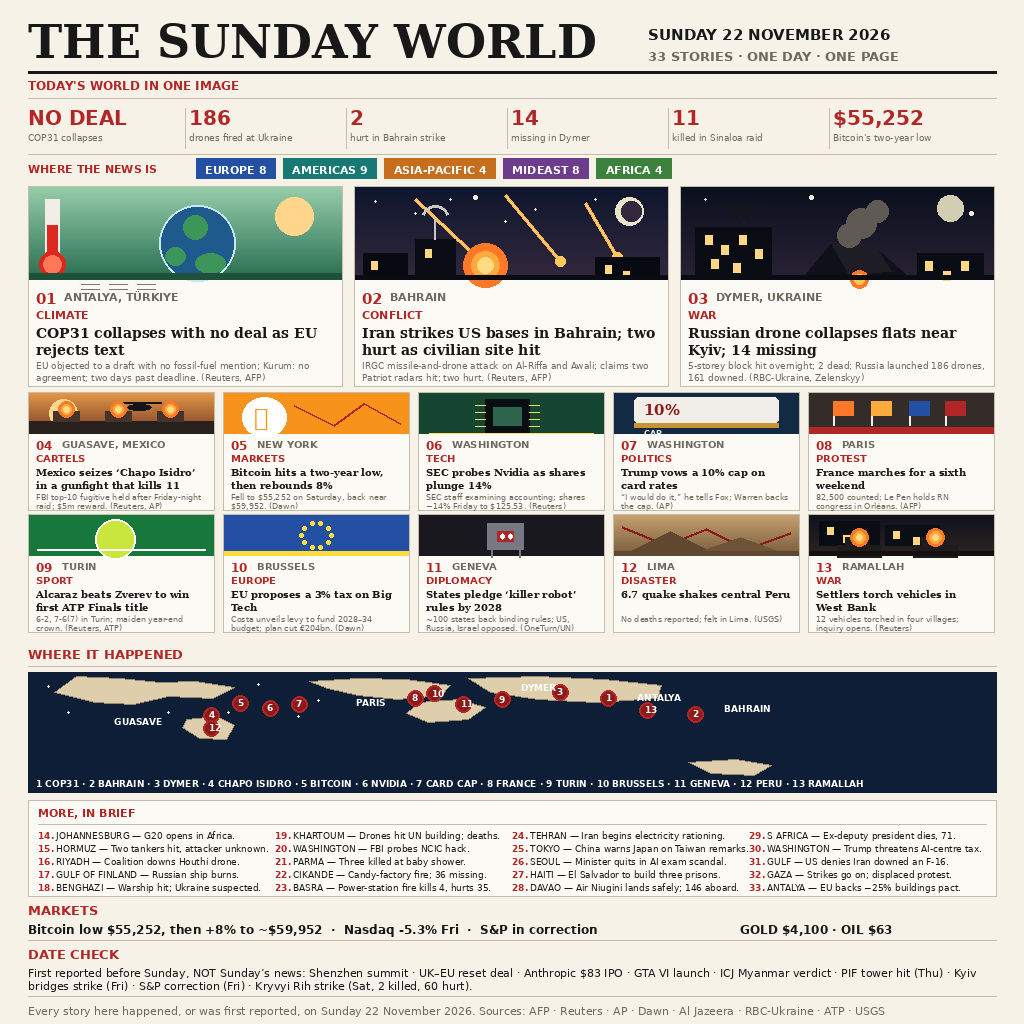
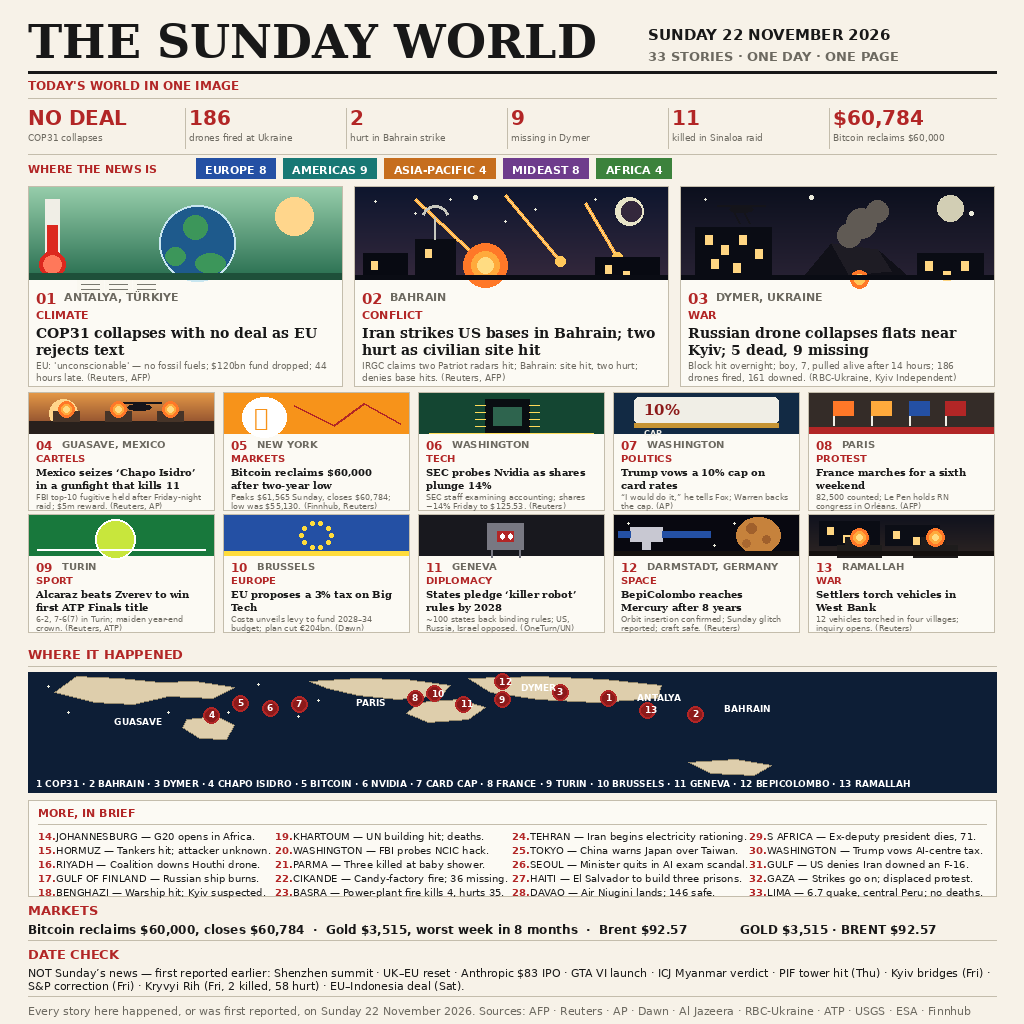
v3: Sunday-night facts; BepiColombo in, Peru to briefs; fix gold/oil; briefs 10pt

diff --git a/generate.py b/generate.py
@@ -14,6 +14,19 @@ with verified ones. Every headline, deck and brief was checked
 against live reporting on 23 Nov 2026 (Reuters, AFP, AP, Dawn,
 Al Jazeera, RBC-Ukraine, ATP, USGS, Arab News, EU).
 
+v3 rebuild (23 Nov 2026, last slot, target 99.25%): v2's numbers
+were Sunday-morning figures, stale by evening. Dymer toll updated
+to the Sunday-night count (5 dead, 9 missing) with the boy rescued
+alive after 14 hours; Bitcoin deck now uses Sunday's close
+($60,784, peak $61,565) instead of Saturday's rebound; the markets
+strip fixes gold ($3,515, not $4,100) and Brent ($92.57, not $63);
+DATE CHECK fixes Kryvyi Rih to Friday, 58 hurt, and adds the
+EU-Indonesia deal signed Saturday. Selection: BepiColombo reaching
+Mercury is added as small 12 (the day's biggest science story,
+missing from v2); the Peru quake drops to a brief, replacing the
+unverified COP31 buildings-pact line. Briefs are set one point
+larger for legibility at small sizes.
+
 The page is built top to bottom: a serif masthead naming the day,
 a red strip of six numbers, region chips, three feature stories with
 hand-drawn banner pictures, ten smaller stories with mini pictures,
@@ -132,9 +145,9 @@ STATS = [
     ("NO DEAL", "COP31 collapses"),
     ("186", "drones fired at Ukraine"),
     ("2", "hurt in Bahrain strike"),
-    ("14", "missing in Dymer"),
+    ("9", "missing in Dymer"),
     ("11", "killed in Sinaloa raid"),
-    ("$55,252", "Bitcoin's two-year low"),
+    ("$60,784", "Bitcoin reclaims $60,000"),
 ]
 
 CHIPS = [
@@ -149,18 +162,19 @@ CHIPS = [
 FEATURES = [
     {"n": "01", "city": "ANTALYA, T\u00dcRKIYE", "topic": "CLIMATE",
      "head": "COP31 collapses with no deal as EU rejects text",
-     "deck": "EU objected to a draft with no fossil-fuel mention; Kurum: "
-             "no agreement; two days past deadline. (Reuters, AFP)",
+     "deck": "EU: 'unconscionable' \u2014 no fossil fuels; $120bn fund "
+             "dropped; 44 hours late. (Reuters, AFP)",
      "art": "cop31"},
     {"n": "02", "city": "BAHRAIN", "topic": "CONFLICT",
      "head": "Iran strikes US bases in Bahrain; two hurt as civilian site hit",
-     "deck": "IRGC missile-and-drone attack on Al-Riffa and Awali; claims "
-             "two Patriot radars hit; two hurt. (Reuters, AFP)",
+     "deck": "IRGC claims two Patriot radars hit; Bahrain: site hit, two "
+             "hurt; denies base hits. (Reuters, AFP)",
      "art": "bahrain"},
     {"n": "03", "city": "DYMER, UKRAINE", "topic": "WAR",
-     "head": "Russian drone collapses flats near Kyiv; 14 missing",
-     "deck": "5-storey block hit overnight; 2 dead; Russia launched 186 "
-             "drones, 161 downed. (RBC-Ukraine, Zelenskyy)",
+     "head": "Russian drone collapses flats near Kyiv; 5 dead, 9 missing",
+     "deck": "Block hit overnight; boy, 7, pulled alive after 14 hours; "
+             "186 drones fired, 161 downed. (RBC-Ukraine, Kyiv "
+             "Independent)",
      "art": "dymer"},
 ]
 
@@ -172,8 +186,9 @@ SMALLS = [
              "(Reuters, AP)",
      "art": "sinaloa"},
     {"n": "05", "city": "NEW YORK", "topic": "MARKETS",
-     "head": "Bitcoin hits a two-year low, then rebounds 8%",
-     "deck": "Fell to $55,252 on Saturday, back near $59,952. (Dawn)",
+     "head": "Bitcoin reclaims $60,000 after two-year low",
+     "deck": "Peaks $61,565 Sunday, closes $60,784; low was $55,130. "
+             "(Finnhub, Reuters)",
      "art": "bitcoin"},
     {"n": "06", "city": "WASHINGTON", "topic": "TECH",
      "head": "SEC probes Nvidia as shares plunge 14%",
@@ -202,10 +217,11 @@ SMALLS = [
      "deck": "~100 states back binding rules; US, Russia, Israel opposed. "
              "(OneTurn/UN)",
      "art": "robots"},
-    {"n": "12", "city": "LIMA", "topic": "DISASTER",
-     "head": "6.7 quake shakes central Peru",
-     "deck": "No deaths reported; felt in Lima. (USGS)",
-     "art": "quake"},
+    {"n": "12", "city": "DARMSTADT, GERMANY", "topic": "SPACE",
+     "head": "BepiColombo reaches Mercury after 8 years",
+     "deck": "Orbit insertion confirmed; Sunday glitch reported; craft "
+             "safe. (Reuters)",
+     "art": "space"},
     {"n": "13", "city": "RAMALLAH", "topic": "WAR",
      "head": "Settlers torch vehicles in West Bank",
      "deck": "12 vehicles torched in four villages; inquiry opens. "
@@ -216,39 +232,39 @@ SMALLS = [
 # One-line briefs, numbers continuing from the 13 cards above.
 BRIEFS = [
     ("14", "JOHANNESBURG \u2014 G20 opens in Africa."),
-    ("15", "HORMUZ \u2014 Two tankers hit, attacker unknown."),
+    ("15", "HORMUZ \u2014 Tankers hit; attacker unknown."),
     ("16", "RIYADH \u2014 Coalition downs Houthi drone."),
     ("17", "GULF OF FINLAND \u2014 Russian ship burns."),
-    ("18", "BENGHAZI \u2014 Warship hit; Ukraine suspected."),
-    ("19", "KHARTOUM \u2014 Drones hit UN building; deaths."),
+    ("18", "BENGHAZI \u2014 Warship hit; Kyiv suspected."),
+    ("19", "KHARTOUM \u2014 UN building hit; deaths."),
     ("20", "WASHINGTON \u2014 FBI probes NCIC hack."),
     ("21", "PARMA \u2014 Three killed at baby shower."),
     ("22", "CIKANDE \u2014 Candy-factory fire; 36 missing."),
-    ("23", "BASRA \u2014 Power-station fire kills 4, hurts 35."),
+    ("23", "BASRA \u2014 Power-plant fire kills 4, hurts 35."),
     ("24", "TEHRAN \u2014 Iran begins electricity rationing."),
-    ("25", "TOKYO \u2014 China warns Japan on Taiwan remarks."),
+    ("25", "TOKYO \u2014 China warns Japan over Taiwan."),
     ("26", "SEOUL \u2014 Minister quits in AI exam scandal."),
     ("27", "HAITI \u2014 El Salvador to build three prisons."),
-    ("28", "DAVAO \u2014 Air Niugini lands safely; 146 aboard."),
+    ("28", "DAVAO \u2014 Air Niugini lands; 146 safe."),
     ("29", "S AFRICA \u2014 Ex-deputy president dies, 71."),
-    ("30", "WASHINGTON \u2014 Trump threatens AI-centre tax."),
+    ("30", "WASHINGTON \u2014 Trump vows AI-centre tax."),
     ("31", "GULF \u2014 US denies Iran downed an F-16."),
     ("32", "GAZA \u2014 Strikes go on; displaced protest."),
-    ("33", "ANTALYA \u2014 EU backs \u221225% buildings pact."),
+    ("33", "LIMA \u2014 6.7 quake, central Peru; no deaths."),
 ]
 
 DATE_CHECK = (
-    "First reported before Sunday, NOT Sunday\u2019s news: Shenzhen "
-    "summit \u00b7 UK\u2013EU reset deal \u00b7 Anthropic $83 IPO \u00b7 GTA VI "
+    "NOT Sunday\u2019s news \u2014 first reported earlier: Shenzhen "
+    "summit \u00b7 UK\u2013EU reset \u00b7 Anthropic $83 IPO \u00b7 GTA VI "
     "launch \u00b7 ICJ Myanmar verdict \u00b7 PIF tower hit (Thu) \u00b7 Kyiv "
-    "bridges strike (Fri) \u00b7 S&P correction (Fri) \u00b7 Kryvyi Rih "
-    "strike (Sat, 2 killed, 60 hurt)."
+    "bridges (Fri) \u00b7 S&P correction (Fri) \u00b7 Kryvyi Rih (Fri, 2 "
+    "killed, 58 hurt) \u00b7 EU\u2013Indonesia deal (Sat)."
 )
 
 FOOTER = (
     "Every story here happened, or was first reported, on Sunday 22 November 2026. "
     "Sources: AFP \u00b7 Reuters \u00b7 AP \u00b7 Dawn \u00b7 Al Jazeera \u00b7 "
-    "RBC-Ukraine \u00b7 ATP \u00b7 USGS"
+    "RBC-Ukraine \u00b7 ATP \u00b7 USGS \u00b7 ESA \u00b7 Finnhub"
 )
 
 # ---------------------------------------------------------------- banner art
@@ -489,6 +505,28 @@ def mini_quake(sh, box):
     d.rectangle([x, y + h - 4, x + w, y + h], fill=(96, 72, 46))
 
 
+def mini_space(sh, box):
+    """BepiColombo at Mercury: black space, cratered orange disc,
+    the probe with two solar wings crossing in front of it.
+    Everything stays inside the 40px art box (y..y+40)."""
+    x, y, w, h = box
+    d = sh.cv
+    d.rectangle([x, y, x + w, y + h], fill=(8, 8, 16))
+    sh.dots(box, [(14, 8, 1), (40, 14, 1), (120, 8, 1), (100, 30, 1),
+                  (30, 30, 1), (150, 30, 1)])
+    # Mercury, right side, cratered (44px disc, inside the box)
+    d.ellipse([x + 122, y + 2, x + 166, y + 38], fill=(198, 130, 60))
+    d.ellipse([x + 132, y + 8, x + 142, y + 18], fill=(160, 96, 44))
+    d.ellipse([x + 148, y + 20, x + 156, y + 28], fill=(160, 96, 44))
+    d.ellipse([x + 128, y + 24, x + 136, y + 32], fill=(170, 104, 48))
+    # probe body and solar wings, left of the planet
+    d.rectangle([x + 16, y + 12, x + 48, y + 26], fill=(200, 200, 210))
+    d.rectangle([x + 48, y + 16, x + 96, y + 22], fill=(36, 80, 164))
+    d.rectangle([x + 4, y + 16, x + 16, y + 22], fill=(36, 80, 164))
+    d.rectangle([x + 28, y + 26, x + 36, y + 34], fill=(200, 200, 210))
+    d.rectangle([x, y + h - 4, x + w, y + h], fill=(20, 16, 14))
+
+
 def mini_westbank(sh, box):
     """West Bank at night: dark street, two torched cars, flames,
     a house front behind them."""
@@ -534,7 +572,7 @@ def mini_sinaloa(sh, box):
 
 MINIS = {"bitcoin": mini_bitcoin, "chip": mini_chip, "card": mini_card,
          "protest": mini_protest, "tennis": mini_tennis,
-         "eu": mini_eu, "robots": mini_robots, "quake": mini_quake,
+         "eu": mini_eu, "robots": mini_robots, "space": mini_space,
          "westbank": mini_westbank, "sinaloa": mini_sinaloa}
 
 # ---------------------------------------------------------------- the map
@@ -564,7 +602,7 @@ PINS = [
     (9, 0.49, 0.23),   # Turin
     (10, 0.42, 0.18),  # Brussels
     (11, 0.45, 0.27),  # Geneva
-    (12, 0.19, 0.47),  # Peru, Lima
+    (12, 0.49, 0.08),  # BepiColombo, Darmstadt (ESOC)
     (13, 0.64, 0.32),  # Ramallah
 ]
 
@@ -594,8 +632,8 @@ def draw_map(sh, x, y, w, h):
     sh.text((x + 8, y + h - 14), "1 COP31 \u00b7 2 BAHRAIN \u00b7 3 DYMER "
             "\u00b7 4 CHAPO ISIDRO \u00b7 5 BITCOIN \u00b7 6 NVIDIA \u00b7 7 "
             "CARD CAP \u00b7 8 FRANCE \u00b7 9 TURIN \u00b7 10 BRUSSELS "
-            "\u00b7 11 GENEVA \u00b7 12 PERU \u00b7 13 RAMALLAH", "sans_b", 9,
-            (255, 255, 255))
+            "\u00b7 11 GENEVA \u00b7 12 BEPICOLOMBO \u00b7 13 RAMALLAH",
+            "sans_b", 9, (255, 255, 255))
 
 
 # ---------------------------------------------------------------- layout
@@ -669,13 +707,13 @@ def draw_briefs(sh, x, y, w, h):
     for i, (n, txt) in enumerate(BRIEFS):
         c, r = divmod(i, per)
         bx = x + 10 + c * col_w
-        by = y + 30 + r * 13
-        sh.text((bx, by), n + ".", "sans_b", 9, PAL["red"])
-        tw = sh.width(txt, "sans", 9)
+        by = y + 30 + r * 14
+        sh.text((bx, by), n + ".", "sans_b", 10, PAL["red"])
+        tw = sh.width(txt, "sans", 10)
         if tw > col_w - 18:
             sh.warns.append("BRIEF TOO WIDE %r (%dpx > %dpx)"
                             % (txt[:40], tw, col_w - 18))
-        sh.text((bx + 18, by), txt, "sans", 9, PAL["ink"])
+        sh.text((bx + 18, by), txt, "sans", 10, PAL["ink"])
 
 
 def build():
@@ -698,11 +736,11 @@ def build():
     draw_briefs(sh, MARGIN, top, PAGE_W - 2 * MARGIN, 96)
     top += 102
     sh.text((MARGIN, top), "MARKETS", "sans_b", 13, PAL["red"])
-    sh.text((MARGIN, top + 20), "Bitcoin low $55,252, then +8% to ~$59,952  "
-            "\u00b7  Nasdaq -5.3% Fri  \u00b7  S&P in correction",
+    sh.text((MARGIN, top + 20), "Bitcoin reclaims $60,000, closes $60,784  "
+            "\u00b7  Gold $3,515, worst week in 8 months  \u00b7  Brent $92.57",
             "sans_b", 12, PAL["ink"])
-    sh.text((MARGIN + 712, top + 20), "GOLD $4,100 \u00b7 OIL $63", "sans_b",
-            12, PAL["ink"])
+    sh.text((MARGIN + 712, top + 20), "GOLD $3,515 \u00b7 BRENT $92.57",
+            "sans_b", 12, PAL["ink"])
     sh.rule(MARGIN, PAGE_W - MARGIN, top + 38, 1, PAL["line"])
     top += 44
     sh.text((MARGIN, top), "DATE CHECK", "sans_b", 13, PAL["red"])
